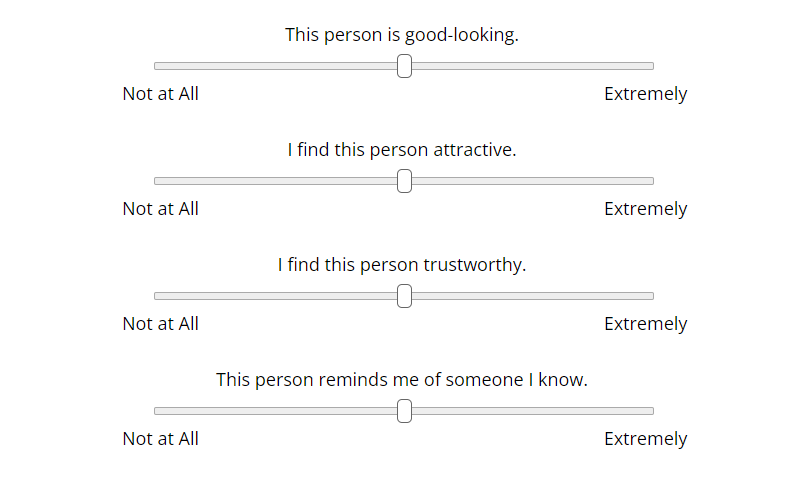
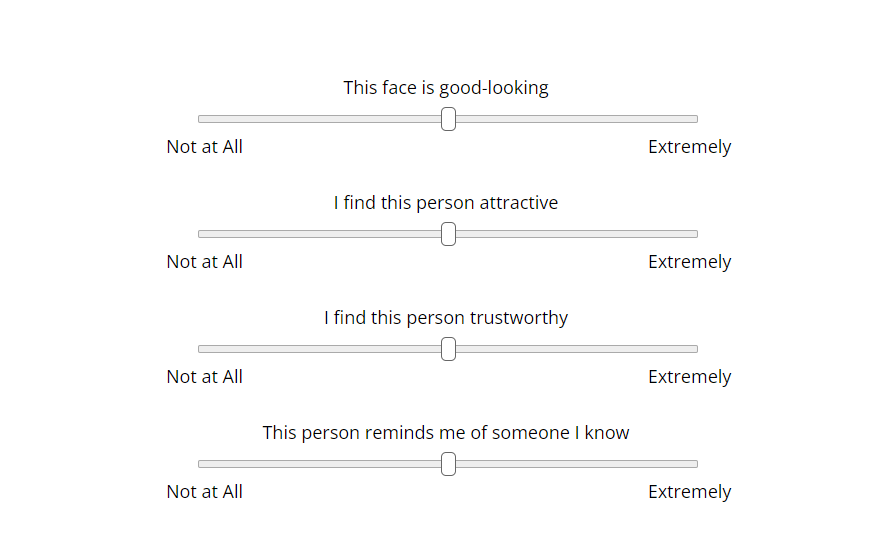
comment out more

diff --git a/experiment/index.html b/experiment/index.html
@@ -723,135 +723,135 @@
     /*=========================== Experiment Block 1 ===================================*/
     /*=================================================================================*/
 
-    timeline.push({
-        type: jsPsychHtmlKeyboardResponse,
-        stimulus: "<p>Please wait for the experiment to load...</p>",
-        choices: "NO_KEYS",
-        trial_duration: 1000,
-        data: { screen: "part_2_loading" },
-    })
+//     timeline.push({
+//         type: jsPsychHtmlKeyboardResponse,
+//         stimulus: "<p>Please wait for the experiment to load...</p>",
+//         choices: "NO_KEYS",
+//         trial_duration: 1000,
+//         data: { screen: "part_2_loading" },
+//     })
 
-    // Preload image stimuli to prevent lagging during experiment
-    timeline.push({
-        type: jsPsychPreload,
-        images: stimuli.map((a) => a.stimulus), // stimuli is a stimulus in ../stimuli
-    })
+//     // Preload image stimuli to prevent lagging during experiment
+//     timeline.push({
+//         type: jsPsychPreload,
+//         images: stimuli.map((a) => a.stimulus), // stimuli is a stimulus in ../stimuli
+//     })
 
-    // Experiment Instructions
-    var task_instructions_1 = {
-        type: jsPsychHtmlButtonResponse,
-        stimulus:
-            "<h1>Part 3/4</h1>" +
-            "<div style='text-align: left'>" +
-            "<p>In this part of the experiment, images of faces will be briefly flashed on the screen.</p>" +
-            "<p>After each image, you will be asked a series of questions, such as:</p><ul>" +
-            "<li><p>To what extent do you find this person <b>good-looking</b> (i.e., the degree to which the face is aesthetically appealing).</p></li>" +
-            "<li><p>How <b>attractive</b> do you find this person (i.e., how drawn are you to this person).</p></li>" +
-            "<li><p>To what extent do you find this person <b>trustworthy</b> (i.e., reliable, honest, responsible etc.,).</p></li>" +
-            "<li><p>How much does this person remind you of <b>someone you know</b> (i.e., how familiar does this face look to you).</p></li><br>" +
-            "<p>Below is an example of how the questions will appear after each image:</p></div>" +
-            "<div style='float: center'><img src='utils/question_demo_2.png' height='400' style='border:5px solid #D3D3D3; padding:3px; margin:5px'></img>" +
-            "<p>We are interested in your <b>first impressions</b>. Please respond according to your gut feelings.</p>",
-            choices: ["Start"],
-        data: { screen: "task_instructions_1" },
-    }
+//     // Experiment Instructions
+//     var task_instructions_1 = {
+//         type: jsPsychHtmlButtonResponse,
+//         stimulus:
+//             "<h1>Part 3/4</h1>" +
+//             "<div style='text-align: left'>" +
+//             "<p>In this part of the experiment, images of faces will be briefly flashed on the screen.</p>" +
+//             "<p>After each image, you will be asked a series of questions, such as:</p><ul>" +
+//             "<li><p>To what extent do you find this person <b>good-looking</b> (the degree to which the face is aesthetically appealing).</p></li>" +
+//             "<li><p>How <b>attractive</b> do you find this person (how drawn are you to this person).</p></li>" +
+//             "<li><p>To what extent do you find this person <b>trustworthy</b> (reliable, honest, responsible etc.,).</p></li>" +
+//             "<li><p>How much does this person remind you of <b>someone you know</b> (how familiar does this face look to you).</p></li><br>" +
+//             "<p>Below is an example of how the questions will appear after each image:</p></div>" +
+//             "<div style='float: center'><img src='utils/question_demo_2.png' height='400' style='border:5px solid #D3D3D3; padding:3px; margin:5px'></img>" +
+//             "<p>We are interested in your <b>first impressions</b>. Please respond according to your gut feelings.</p>",
+//             choices: ["Start"],
+//         data: { screen: "task_instructions_1" },
+//     }
 
-    timeline.push(task_instructions_1)
+//     timeline.push(task_instructions_1)
 
-    var trial_number = 1 // trial indexing variable starts at 1 for convenience
-    var block_number = 1
+//     var trial_number = 1 // trial indexing variable starts at 1 for convenience
+//     var block_number = 1
 
-    // Fixation cross
-    var fixation = {
-        type: jsPsychHtmlKeyboardResponse,
-        stimulus: '<div style="font-size:60px;">+</div>',
-        choices: "NO_KEYS",
-        trial_duration: 750,
-        // trial_duration: 0,  // for testing
-        on_start: function () {
-            ; (document.body.style.cursor = "none"),
-                (document.querySelector(
-                    "#jspsych-progressbar-container"
-                ).style.display = "none")
-        },
-        save_trial_parameters: {
-            trial_duration: true,
-        },
-        data: { screen: "fixation" },
-    }
+//     // Fixation cross
+//     var fixation = {
+//         type: jsPsychHtmlKeyboardResponse,
+//         stimulus: '<div style="font-size:60px;">+</div>',
+//         choices: "NO_KEYS",
+//         trial_duration: 750,
+//         // trial_duration: 0,  // for testing
+//         on_start: function () {
+//             ; (document.body.style.cursor = "none"),
+//                 (document.querySelector(
+//                     "#jspsych-progressbar-container"
+//                 ).style.display = "none")
+//         },
+//         save_trial_parameters: {
+//             trial_duration: true,
+//         },
+//         data: { screen: "fixation" },
+//     }
 
-    //Stimuli block
-    // var images = [];
-    // for (var i = 10; i < 20; i++) {
-    //     images.push({stimulus: "utils/Faces/NS1" + i + ".jpg"});
-    // }
+//     //Stimuli block
+//     // var images = [];
+//     // for (var i = 10; i < 20; i++) {
+//     //     images.push({stimulus: "utils/Faces/NS1" + i + ".jpg"});
+//     // }
 
-    // Loop through stimuli
-    var stimuli_trial = {
-        type: jsPsychImageKeyboardResponse,
-        stimulus: jsPsych.timelineVariable("stimulus"),
-        choices: "NO_KEYS",
-        trial_duration: 500,
-        // trial_duration: 200,  // for testing
-        on_start: function () {
-            ; (document.body.style.cursor = "none"),
-                (document.querySelector(
-                    "#jspsych-progressbar-container"
-                ).style.display = "none")
-        },
-        save_trial_parameters: {
-            trial_duration: true,
-        },
-        on_finish: function (data) {
-            data.trial_number = trial_number
-            trial_number += 1
-            data.block_number = block_number
-        },
-        data: { screen: "stimuli" },
-    }
+//     // Loop through stimuli
+//     var stimuli_trial = {
+//         type: jsPsychImageKeyboardResponse,
+//         stimulus: jsPsych.timelineVariable("stimulus"),
+//         choices: "NO_KEYS",
+//         trial_duration: 500,
+//         // trial_duration: 200,  // for testing
+//         on_start: function () {
+//             ; (document.body.style.cursor = "none"),
+//                 (document.querySelector(
+//                     "#jspsych-progressbar-container"
+//                 ).style.display = "none")
+//         },
+//         save_trial_parameters: {
+//             trial_duration: true,
+//         },
+//         on_finish: function (data) {
+//             data.trial_number = trial_number
+//             trial_number += 1
+//             data.block_number = block_number
+//         },
+//         data: { screen: "stimuli" },
+//     }
 
-    var trait_items = []
+//     var trait_items = []
 
-    // Add Items on Attractiveness Trustworthiness and Familiarity
-    for (const [index, element] of items.entries()) {
-        trait_items.push({
-            prompt: element,
-            name: dimensions[index],
-            ticks: scale1,
-            required: true,
-            min: 0,
-            max: 1,
-            step: 0.01,
-            slider_start: 0.5
-        })
-    }
+//     // Add Items on Attractiveness Trustworthiness and Familiarity
+//     for (const [index, element] of items.entries()) {
+//         trait_items.push({
+//             prompt: element,
+//             name: dimensions[index],
+//             ticks: scale1,
+//             required: true,
+//             min: 0,
+//             max: 1,
+//             step: 0.01,
+//             slider_start: 0.5
+//         })
+//     }
 
-    var questionnaire = {
-        type: jsPsychMultipleSlider, // this is a custom plugin in utils
-        questions: trait_items,
-        randomize_question_order: false,
-        //preamble: '<div style="font-size:24px;"><b>Assuming that the face you saw was real</b><br></p></div>',
-        require_movement: true,
-        on_start: function () {
-            ; (document.body.style.cursor = "auto"),
-                (document.querySelector(
-                    "#jspsych-progressbar-container"
-                ).style.display = "inline")
-        },
-        data: {
-            screen: "questionnaire",
-        },
-    }
+//     var questionnaire = {
+//         type: jsPsychMultipleSlider, // this is a custom plugin in utils
+//         questions: trait_items,
+//         randomize_question_order: false,
+//         //preamble: '<div style="font-size:24px;"><b>Assuming that the face you saw was real</b><br></p></div>',
+//         require_movement: true,
+//         on_start: function () {
+//             ; (document.body.style.cursor = "auto"),
+//                 (document.querySelector(
+//                     "#jspsych-progressbar-container"
+//                 ).style.display = "inline")
+//         },
+//         data: {
+//             screen: "questionnaire",
+//         },
+//     }
 
-    //Loop through fixation, stimuli and questionnaire blocks
-    var test_procedure = {
-        timeline: [fixation, stimuli_trial, questionnaire],
-        timeline_variables: stimuli,
-        randomize_order: true,
-        repetitions: 0,
-    }
+//     //Loop through fixation, stimuli and questionnaire blocks
+//     var test_procedure = {
+//         timeline: [fixation, stimuli_trial, questionnaire],
+//         timeline_variables: stimuli,
+//         randomize_order: true,
+//         repetitions: 0,
+//     }
 
-   timeline.push(test_procedure)
+//    timeline.push(test_procedure)
 
     /*=================================================================================*/
     /*=================================== Break =======================================*/

diff --git a/experiment/parameters.js b/experiment/parameters.js
@@ -6,11 +6,11 @@ var scale2 = ["Strongly Disagree", "Strongly Agree"]
 // Oosterhof and Todorov (2008) - 9 point scale (Not at all to Extremely)
 var items = [
     //"The face looked real to me",
-    "This person is good-looking.",
-    "I find this person attractive.",
+    "This face is good-looking",
+    "I find this person attractive",
     // "Would you find this person approachable?",
-    "I find this person trustworthy.",
-    "This person reminds me of someone I know.",
+    "I find this person trustworthy",
+    "This person reminds me of someone I know",
     // "How much does this face look like yours?",
     // "How weird is the face you saw?",   // include eeriness as well? (cf uncanny valley effect)
     // "How dominant is the face you saw?",
